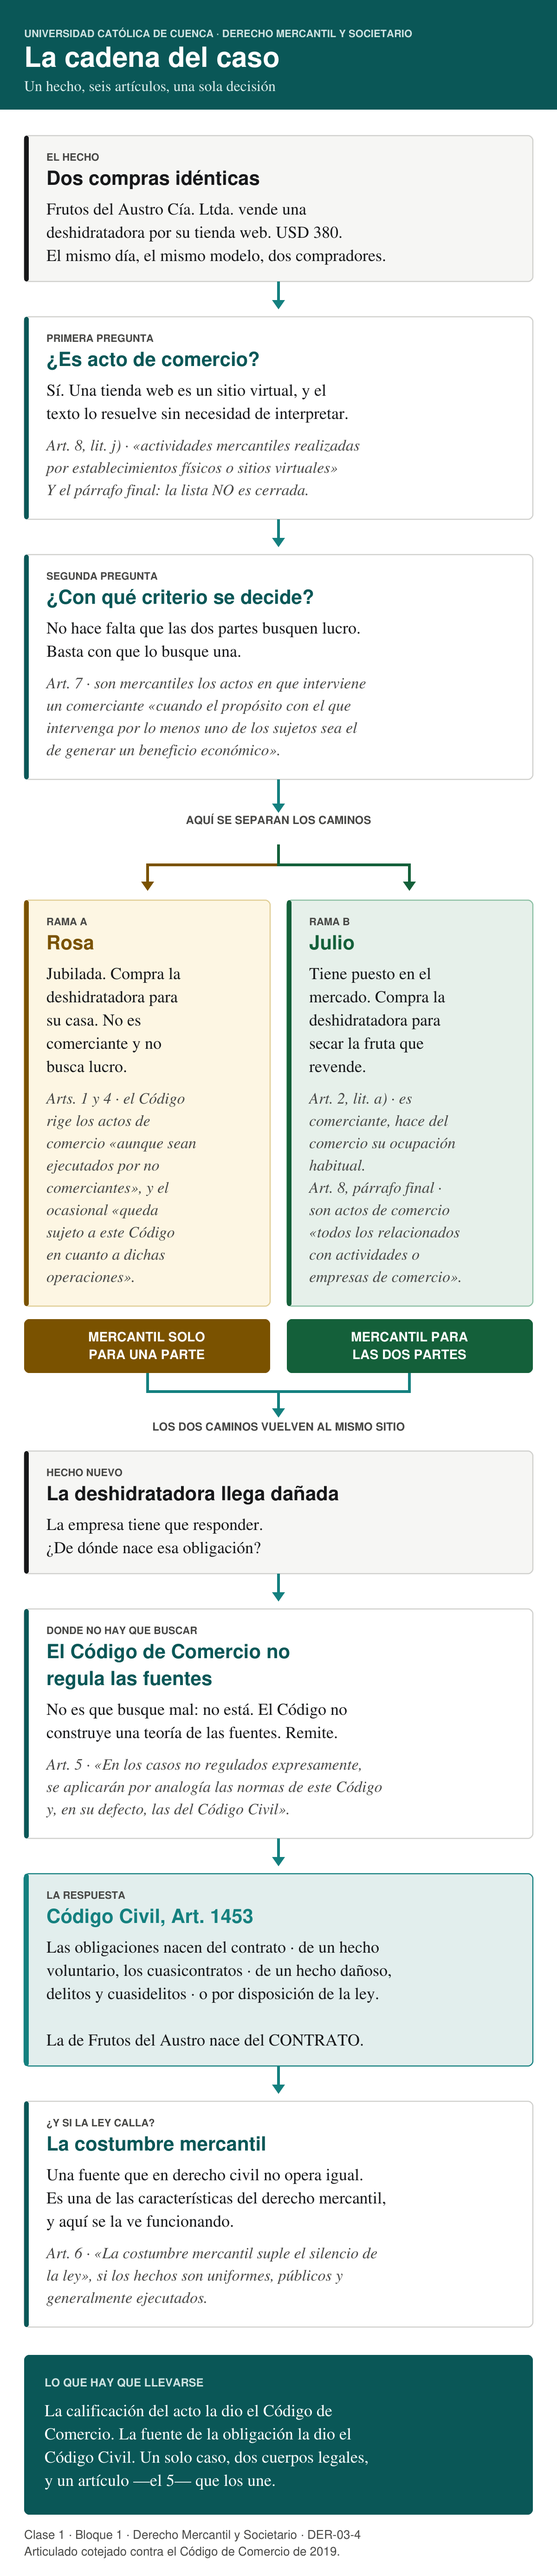
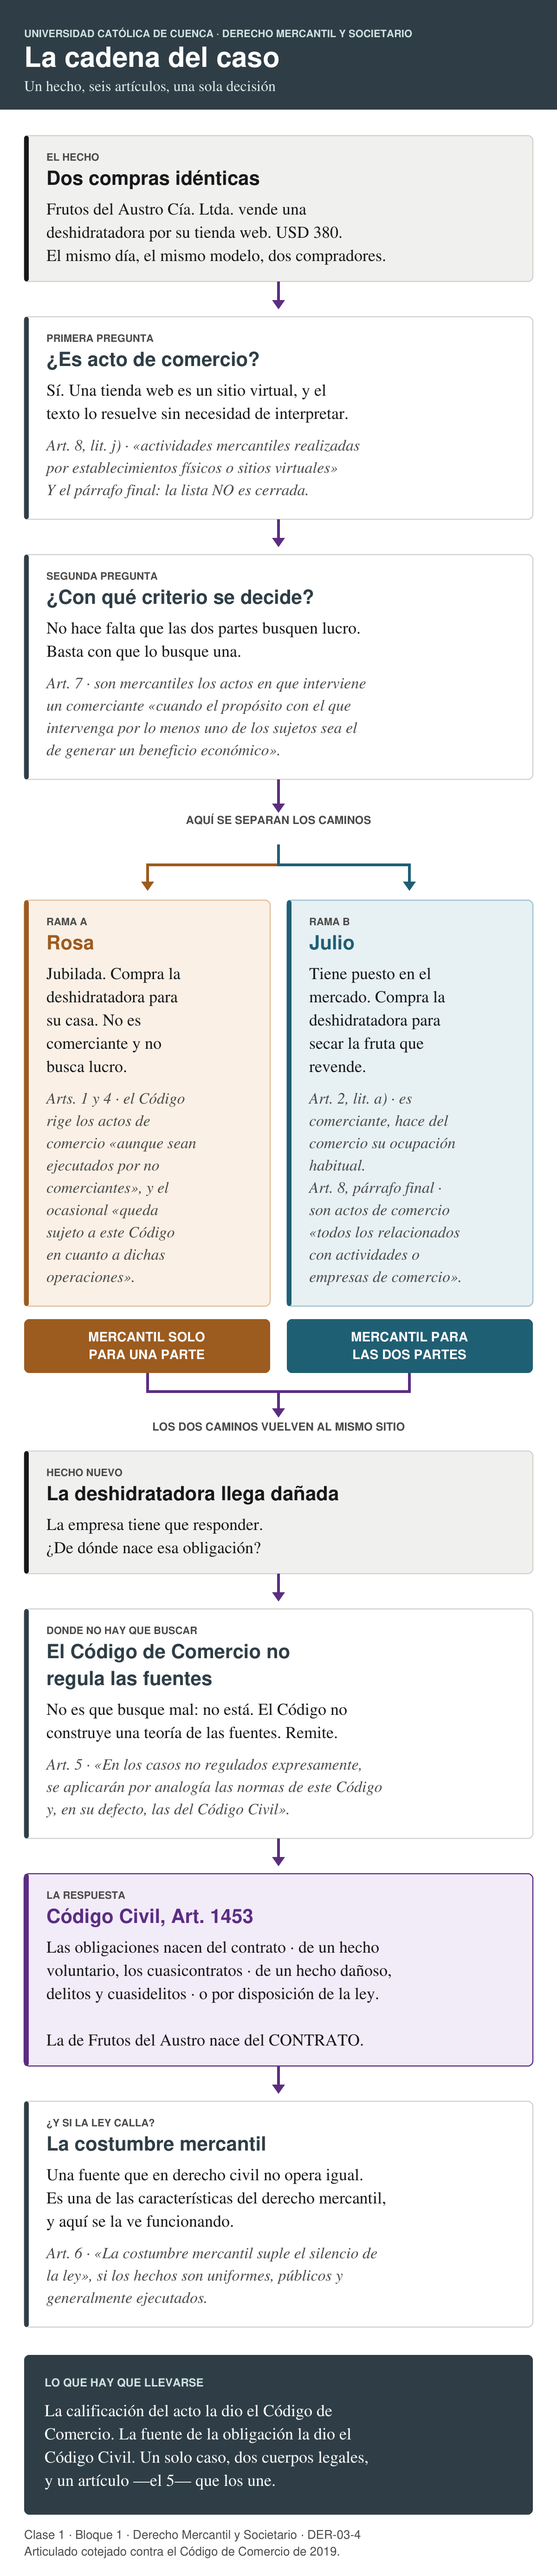
Recursos: paleta pedagogica · el color codifica la funcion, no la materia
Hasta ahora los tres recursos llevaban el teal de la asignatura. Eso es
marca: le dice al estudiante de que materia es la pagina, que ya lo sabe,
y no le dice nada de lo que tiene que hacer.

Seis funciones, seis colores, iguales en los tres recursos para que el
codigo se aprenda una vez: DECIDIR indigo, ACIERTO verde, ERROR vino,
LA NORMA violeta, AVISO ambar, LO QUE HAY QUE LLEVARSE pizarra.

El cambio que de verdad ensena es que LA NORMA gana color propio. No es
acierto ni error: es el sitio donde se comprueba la respuesta. Antes
compartia el color del acento y se leia como «lo correcto».

Las cabeceras pasan a pizarra neutra para no competir con las senales
activas. En la lamina, las dos ramas salen del juego de funciones -Rosa y
Julio no son acierto ni error, son caminos- y usan terracota y azul
petroleo, rotulados.

Comprobado y no supuesto: los seis pares tinta/fondo pasan WCAG AA y
cuatro pasan AAA; simulada la deuteranopia, ninguna pareja se vuelve
indistinguible y la critica, acierto contra error, queda en 0,34. El
color nunca va solo: siempre con simbolo o rotulo.

diff --git a/recursos/mercantilidad/index.html b/recursos/mercantilidad/index.html
@@ -6,13 +6,33 @@
 <title>¿Mercantil o civil? · Seis decisiones · Derecho Mercantil y Societario</title>
 <style>
 :root{
-  --papel:#f6f6f4; --papel-alt:#ececea; --blanco:#fff;
-  --tinta:#17181a; --tinta-suave:#33353a; --nota:#474745;
-  --acento:#0a5757; --acento-claro:#14807f; --acento-tenue:#e2eeed;
-  --contra:#8a2b2b; --contra-tenue:#f4e7e7; --contra-linea:#d9b3b3;
-  --ambar:#7a5200; --ambar-tenue:#fdf6e3; --ambar-linea:#e0cd93;
+  /* ---------------------------------------------------------------
+     PALETA PEDAGÓGICA · el color codifica la función, no la materia.
+     Contraste WCAG comprobado; deuteranopia simulada. Ver
+     PALETA_PEDAGOGICA.md. El color nunca va solo: siempre con rótulo.
+     --------------------------------------------------------------- */
+  --papel:#f7f7f6; --papel-alt:#ebebe9; --blanco:#fff;
+  --tinta:#17181a; --tinta-suave:#33353a; --nota:#4a4a48;
+  --linea:#d2d2cf;
+
+  /* DECIDIR · tu turno */
+  --acento:#2d3a8c; --acento-claro:#3d4da8; --acento-tenue:#eef1fb;
+
+  /* ERROR · no resiste el texto */
+  --contra:#8a2b2b; --contra-tenue:#f7eaea; --contra-linea:#d8b4b4;
+
+  /* ACIERTO */
   --verde:#14603a; --verde-tenue:#e6f0ea; --verde-linea:#8bbfa3;
-  --linea:#d0d0cd;
+
+  /* AVISO · la trampa */
+  --ambar:#7a5200; --ambar-tenue:#fdf6e3; --ambar-linea:#e0cd93;
+
+  /* LA NORMA · aquí manda el texto */
+  --norma:#5b2d82; --norma-tenue:#f2ebf8; --norma-linea:#c3a8da;
+
+  /* LO QUE HAY QUE LLEVARSE · y las cabeceras, deliberadamente neutras */
+  --pizarra:#2f3e46; --pizarra-tenue:#e9eeef; --pizarra-claro:#cfd8da;
+
   --serif:Charter,"Georgia","Times New Roman",serif;
   --titulo:"Segoe UI",system-ui,-apple-system,sans-serif;
 }
@@ -22,13 +42,13 @@ body{margin:0;background:var(--papel);color:var(--tinta);
 h1,h2,h3{font-family:var(--titulo);font-weight:600;line-height:1.24;margin:0}
 .oculto{display:none !important}
 
-.banda{background:var(--acento);color:#fff;padding:1.1rem 1.2rem}
+.banda{background:var(--pizarra);color:#fff;padding:1.1rem 1.2rem}
 .banda .interior{max-width:760px;margin:0 auto;
   display:flex;justify-content:space-between;align-items:flex-end;gap:1rem;flex-wrap:wrap}
 .banda .emisor{font-family:var(--titulo);font-size:.6rem;letter-spacing:.2em;
-  text-transform:uppercase;color:#cfe3e2;margin:0 0 .3rem}
+  text-transform:uppercase;color:var(--pizarra-claro);margin:0 0 .3rem}
 .banda h1{font-size:1.25rem}
-.banda .cuenta{font-family:var(--titulo);font-size:.82rem;color:#cfe3e2;white-space:nowrap}
+.banda .cuenta{font-family:var(--titulo);font-size:.82rem;color:var(--pizarra-claro);white-space:nowrap}
 
 .barra{height:5px;background:var(--papel-alt)}
 .barra div{height:100%;background:var(--acento-claro);width:0;transition:width .35s}
@@ -47,7 +67,7 @@ h1,h2,h3{font-family:var(--titulo);font-weight:600;line-height:1.24;margin:0}
 .ficha .num{font-family:var(--titulo);font-size:.64rem;letter-spacing:.18em;
   text-transform:uppercase;color:var(--nota);margin-bottom:.5rem}
 .ficha .hecho{font-size:1.06rem;line-height:1.6;margin:0 0 1.1rem}
-.ficha .hecho b{color:var(--acento)}
+.ficha .hecho b{color:var(--tinta)}   /* enfasis, no funcion */
 
 .opciones{display:flex;flex-direction:column;gap:.55rem}
 .opciones button{text-align:left;font-family:var(--titulo);font-size:.96rem;
@@ -70,9 +90,9 @@ h1,h2,h3{font-family:var(--titulo);font-weight:600;line-height:1.24;margin:0}
   color:var(--acento);margin-bottom:.5rem}
 .vuelta p{margin:0 0 .75rem;font-size:.97rem}
 .vuelta p:last-child{margin-bottom:0}
-.norma{background:var(--acento-tenue);border-left:4px solid var(--acento-claro);
+.norma{background:var(--norma-tenue);border-left:5px solid var(--norma);
   border-radius:0 3px 3px 0;padding:.65rem .85rem;margin:.6rem 0;font-size:.93rem}
-.norma b{color:var(--acento)}
+.norma b{color:var(--norma)}
 .descarte{background:var(--papel-alt);border-left:4px solid var(--nota);
   border-radius:0 3px 3px 0;padding:.6rem .85rem;margin:.5rem 0;font-size:.9rem;color:var(--tinta-suave)}
 .descarte b{font-family:var(--titulo);font-size:.82rem}
@@ -89,10 +109,10 @@ h1,h2,h3{font-family:var(--titulo);font-weight:600;line-height:1.24;margin:0}
 .acciones{display:flex;gap:.6rem;flex-wrap:wrap;margin-top:1rem}
 
 .cierre{background:var(--blanco);border:1px solid var(--linea);
-  border-top:5px solid var(--acento);border-radius:4px;padding:1.3rem}
-.cierre h2{font-size:1.15rem;color:var(--acento);margin-bottom:.6rem}
+  border-top:5px solid var(--pizarra);border-radius:4px;padding:1.3rem}
+.cierre h2{font-size:1.15rem;color:var(--pizarra);margin-bottom:.6rem}
 .cierre .tanteo{font-family:var(--titulo);font-size:2.1rem;font-weight:700;
-  color:var(--acento);line-height:1.1;margin:.4rem 0}
+  color:var(--pizarra);line-height:1.1;margin:.4rem 0}
 .cierre table{width:100%;border-collapse:collapse;font-size:.88rem;margin:.9rem 0}
 .cierre td{border-bottom:1px solid var(--linea);padding:.4rem .3rem;vertical-align:top}
 .cierre td:first-child{width:1.6rem;font-family:var(--titulo);font-weight:700}

diff --git a/recursos/vigencia/index.html b/recursos/vigencia/index.html
@@ -6,13 +6,33 @@
 <title>¿Qué norma rige qué? · Control de vigencia · Derecho Mercantil y Societario</title>
 <style>
 :root{
-  --papel:#f6f6f4; --papel-alt:#ececea; --blanco:#fff;
-  --tinta:#17181a; --tinta-suave:#33353a; --nota:#474745;
-  --acento:#0a5757; --acento-claro:#14807f; --acento-tenue:#e2eeed;
-  --contra:#8a2b2b; --contra-tenue:#f4e7e7; --contra-linea:#d9b3b3;
-  --ambar:#7a5200; --ambar-tenue:#fdf6e3; --ambar-linea:#e0cd93;
+  /* ---------------------------------------------------------------
+     PALETA PEDAGÓGICA · el color codifica la función, no la materia.
+     Contraste WCAG comprobado; deuteranopia simulada. Ver
+     PALETA_PEDAGOGICA.md. El color nunca va solo: siempre con rótulo.
+     --------------------------------------------------------------- */
+  --papel:#f7f7f6; --papel-alt:#ebebe9; --blanco:#fff;
+  --tinta:#17181a; --tinta-suave:#33353a; --nota:#4a4a48;
+  --linea:#d2d2cf;
+
+  /* DECIDIR · tu turno */
+  --acento:#2d3a8c; --acento-claro:#3d4da8; --acento-tenue:#eef1fb;
+
+  /* ERROR · no resiste el texto */
+  --contra:#8a2b2b; --contra-tenue:#f7eaea; --contra-linea:#d8b4b4;
+
+  /* ACIERTO */
   --verde:#14603a; --verde-tenue:#e6f0ea; --verde-linea:#8bbfa3;
-  --linea:#d0d0cd;
+
+  /* AVISO · la trampa */
+  --ambar:#7a5200; --ambar-tenue:#fdf6e3; --ambar-linea:#e0cd93;
+
+  /* LA NORMA · aquí manda el texto */
+  --norma:#5b2d82; --norma-tenue:#f2ebf8; --norma-linea:#c3a8da;
+
+  /* LO QUE HAY QUE LLEVARSE · y las cabeceras, deliberadamente neutras */
+  --pizarra:#2f3e46; --pizarra-tenue:#e9eeef; --pizarra-claro:#cfd8da;
+
   --serif:Charter,"Georgia","Times New Roman",serif;
   --titulo:"Segoe UI",system-ui,-apple-system,sans-serif;
 }
@@ -22,13 +42,13 @@ body{margin:0;background:var(--papel);color:var(--tinta);
 h1,h2,h3,h4{font-family:var(--titulo);font-weight:600;line-height:1.24;margin:0}
 .oculto{display:none !important}
 
-.banda{background:var(--acento);color:#fff;padding:1.1rem 1.2rem}
+.banda{background:var(--pizarra);color:#fff;padding:1.1rem 1.2rem}
 .banda .interior{max-width:760px;margin:0 auto;
   display:flex;justify-content:space-between;align-items:flex-end;gap:1rem;flex-wrap:wrap}
 .banda .emisor{font-family:var(--titulo);font-size:.6rem;letter-spacing:.2em;
-  text-transform:uppercase;color:#cfe3e2;margin:0 0 .3rem}
+  text-transform:uppercase;color:var(--pizarra-claro);margin:0 0 .3rem}
 .banda h1{font-size:1.25rem}
-.banda .intentos{font-family:var(--titulo);font-size:.82rem;color:#cfe3e2;white-space:nowrap}
+.banda .intentos{font-family:var(--titulo);font-size:.82rem;color:var(--pizarra-claro);white-space:nowrap}
 
 .hoja{max-width:760px;margin:0 auto;padding:1.4rem 1.2rem 4rem}
 p{margin:0 0 1rem}
@@ -53,7 +73,7 @@ p{margin:0 0 1rem}
 .pregunta .num{font-family:var(--titulo);font-size:.63rem;letter-spacing:.18em;
   text-transform:uppercase;color:var(--nota);margin-bottom:.45rem}
 .pregunta .enun{font-size:1.02rem;line-height:1.55;margin:0 0 .9rem}
-.pregunta .enun b{color:var(--acento)}
+.pregunta .enun b{color:var(--tinta)}   /* enfasis, no funcion */
 
 .ops label{display:flex;gap:.65rem;align-items:flex-start;
   padding:.65rem .75rem;border:1px solid var(--linea);border-radius:4px;
@@ -69,7 +89,7 @@ p{margin:0 0 1rem}
   font-size:.93rem}
 .razon .clave{font-family:var(--titulo);font-size:.68rem;letter-spacing:.13em;
   text-transform:uppercase;color:var(--verde);margin-bottom:.35rem}
-.razon .norma{background:var(--acento-tenue);border-left:4px solid var(--acento-claro);
+.razon .norma{background:var(--norma-tenue);border-left:5px solid var(--norma);
   border-radius:0 3px 3px 0;padding:.6rem .8rem;margin:.5rem 0}
 
 .btn{font-family:var(--titulo);font-size:.95rem;font-weight:600;
@@ -83,7 +103,7 @@ p{margin:0 0 1rem}
 .acciones{display:flex;gap:.6rem;flex-wrap:wrap;margin-top:1rem}
 
 .tanteo{font-family:var(--titulo);font-size:2rem;font-weight:700;
-  color:var(--acento);line-height:1.1;margin:.2rem 0 .5rem}
+  color:var(--pizarra);line-height:1.1;margin:.2rem 0 .5rem}
 
 .pie{max-width:760px;margin:0 auto;padding:1.2rem;border-top:1px solid var(--linea);
   font-family:var(--titulo);font-size:.78rem;color:var(--nota)}
